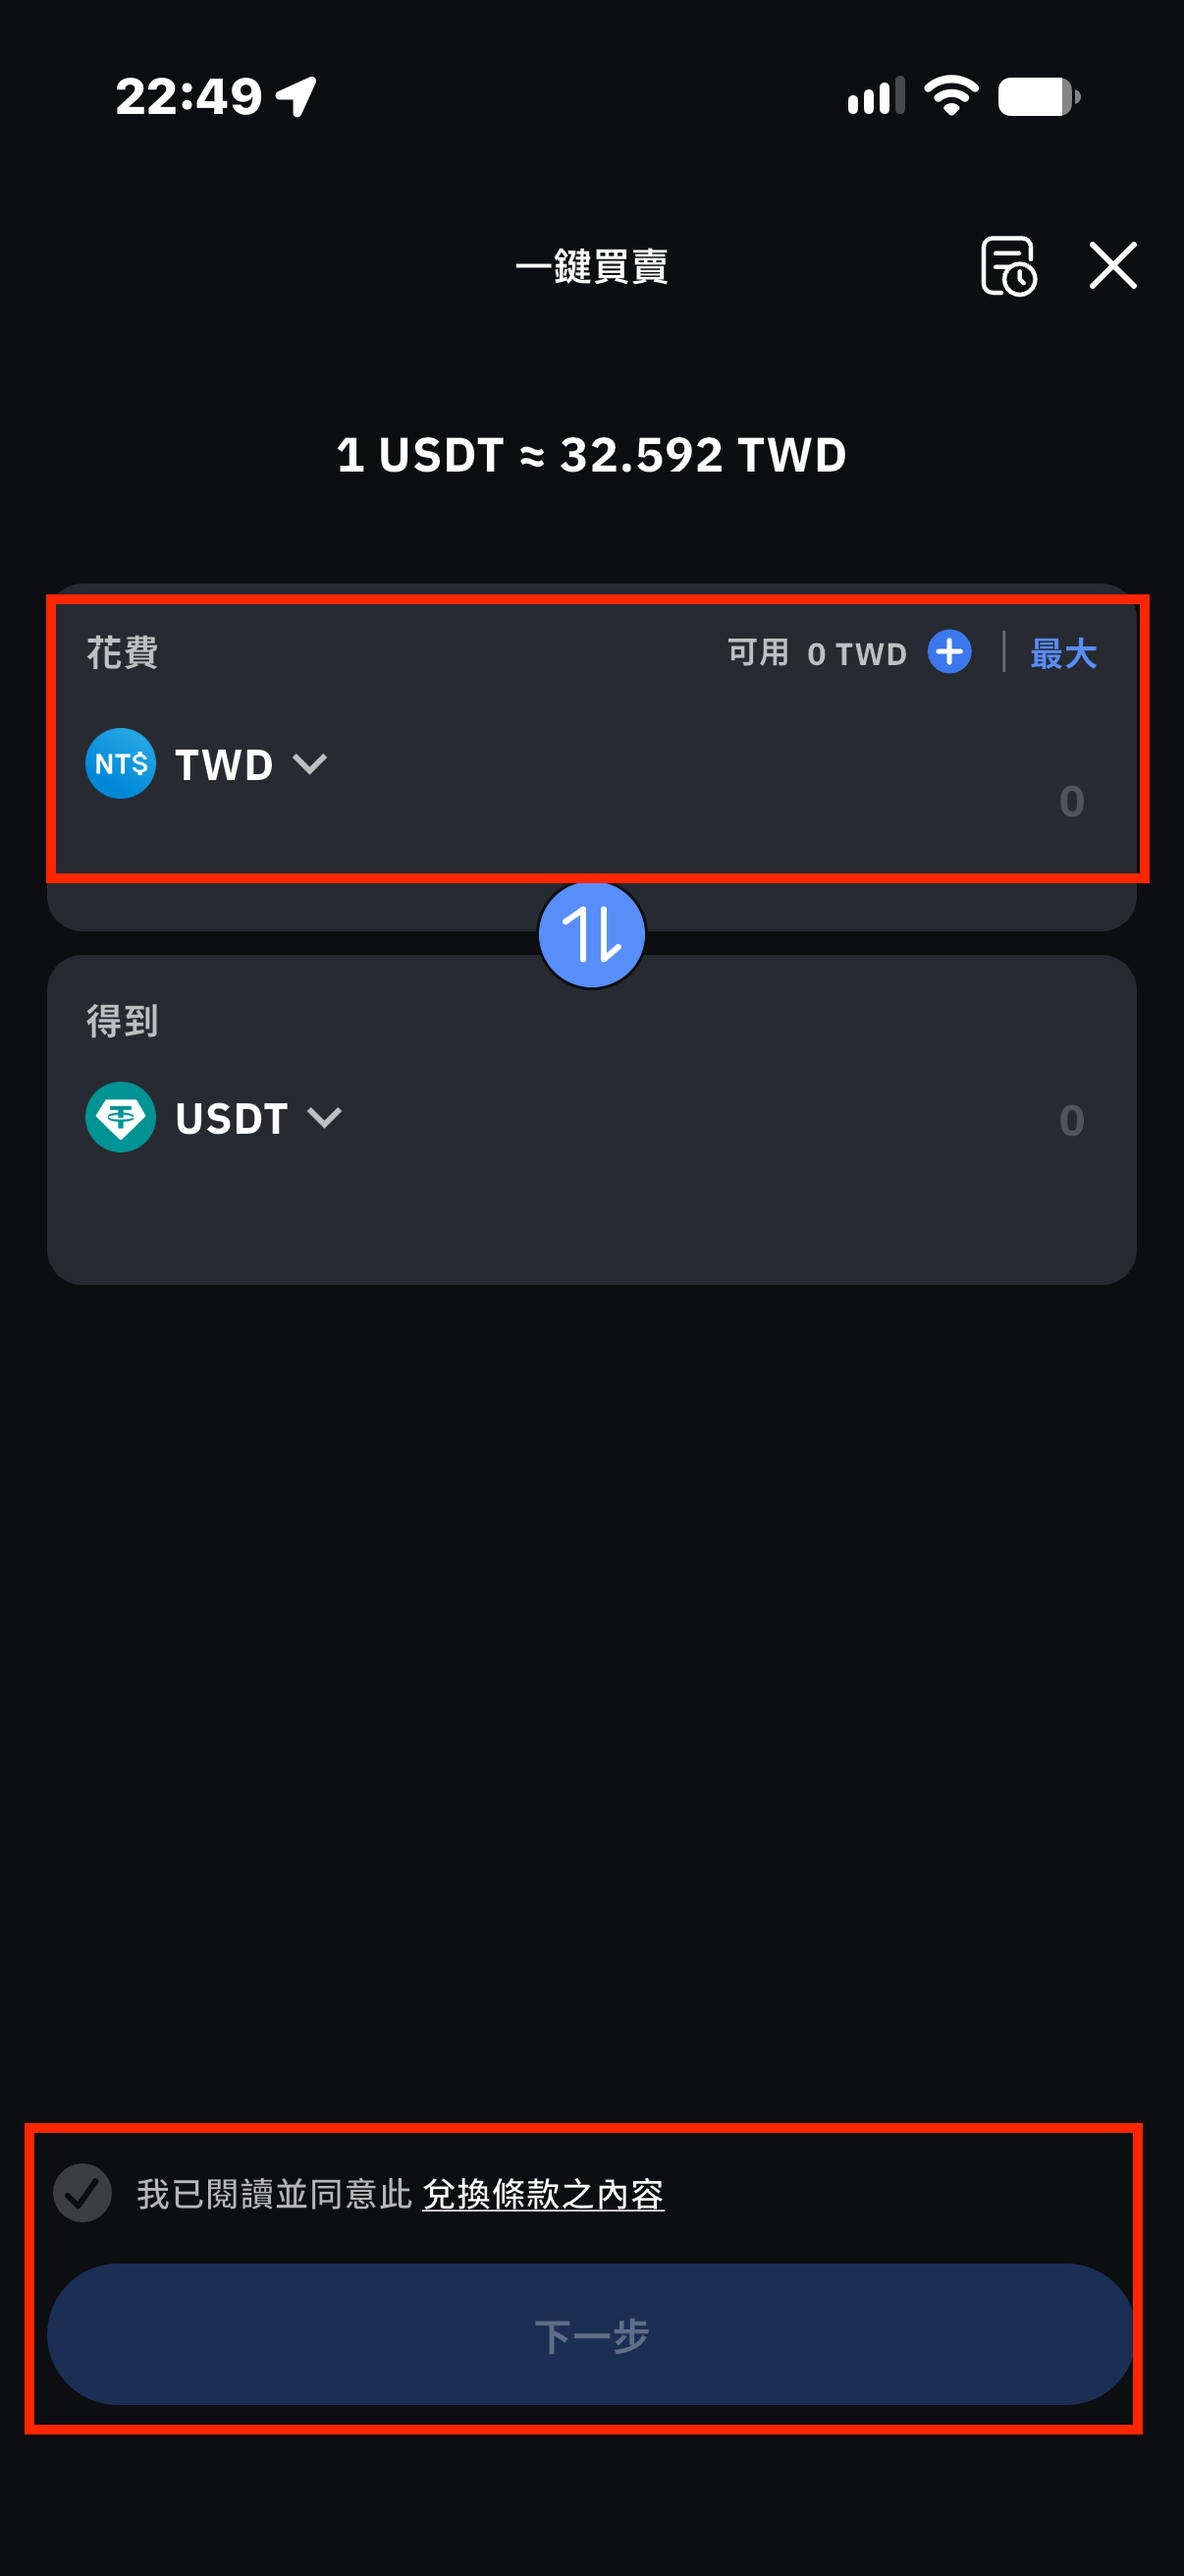
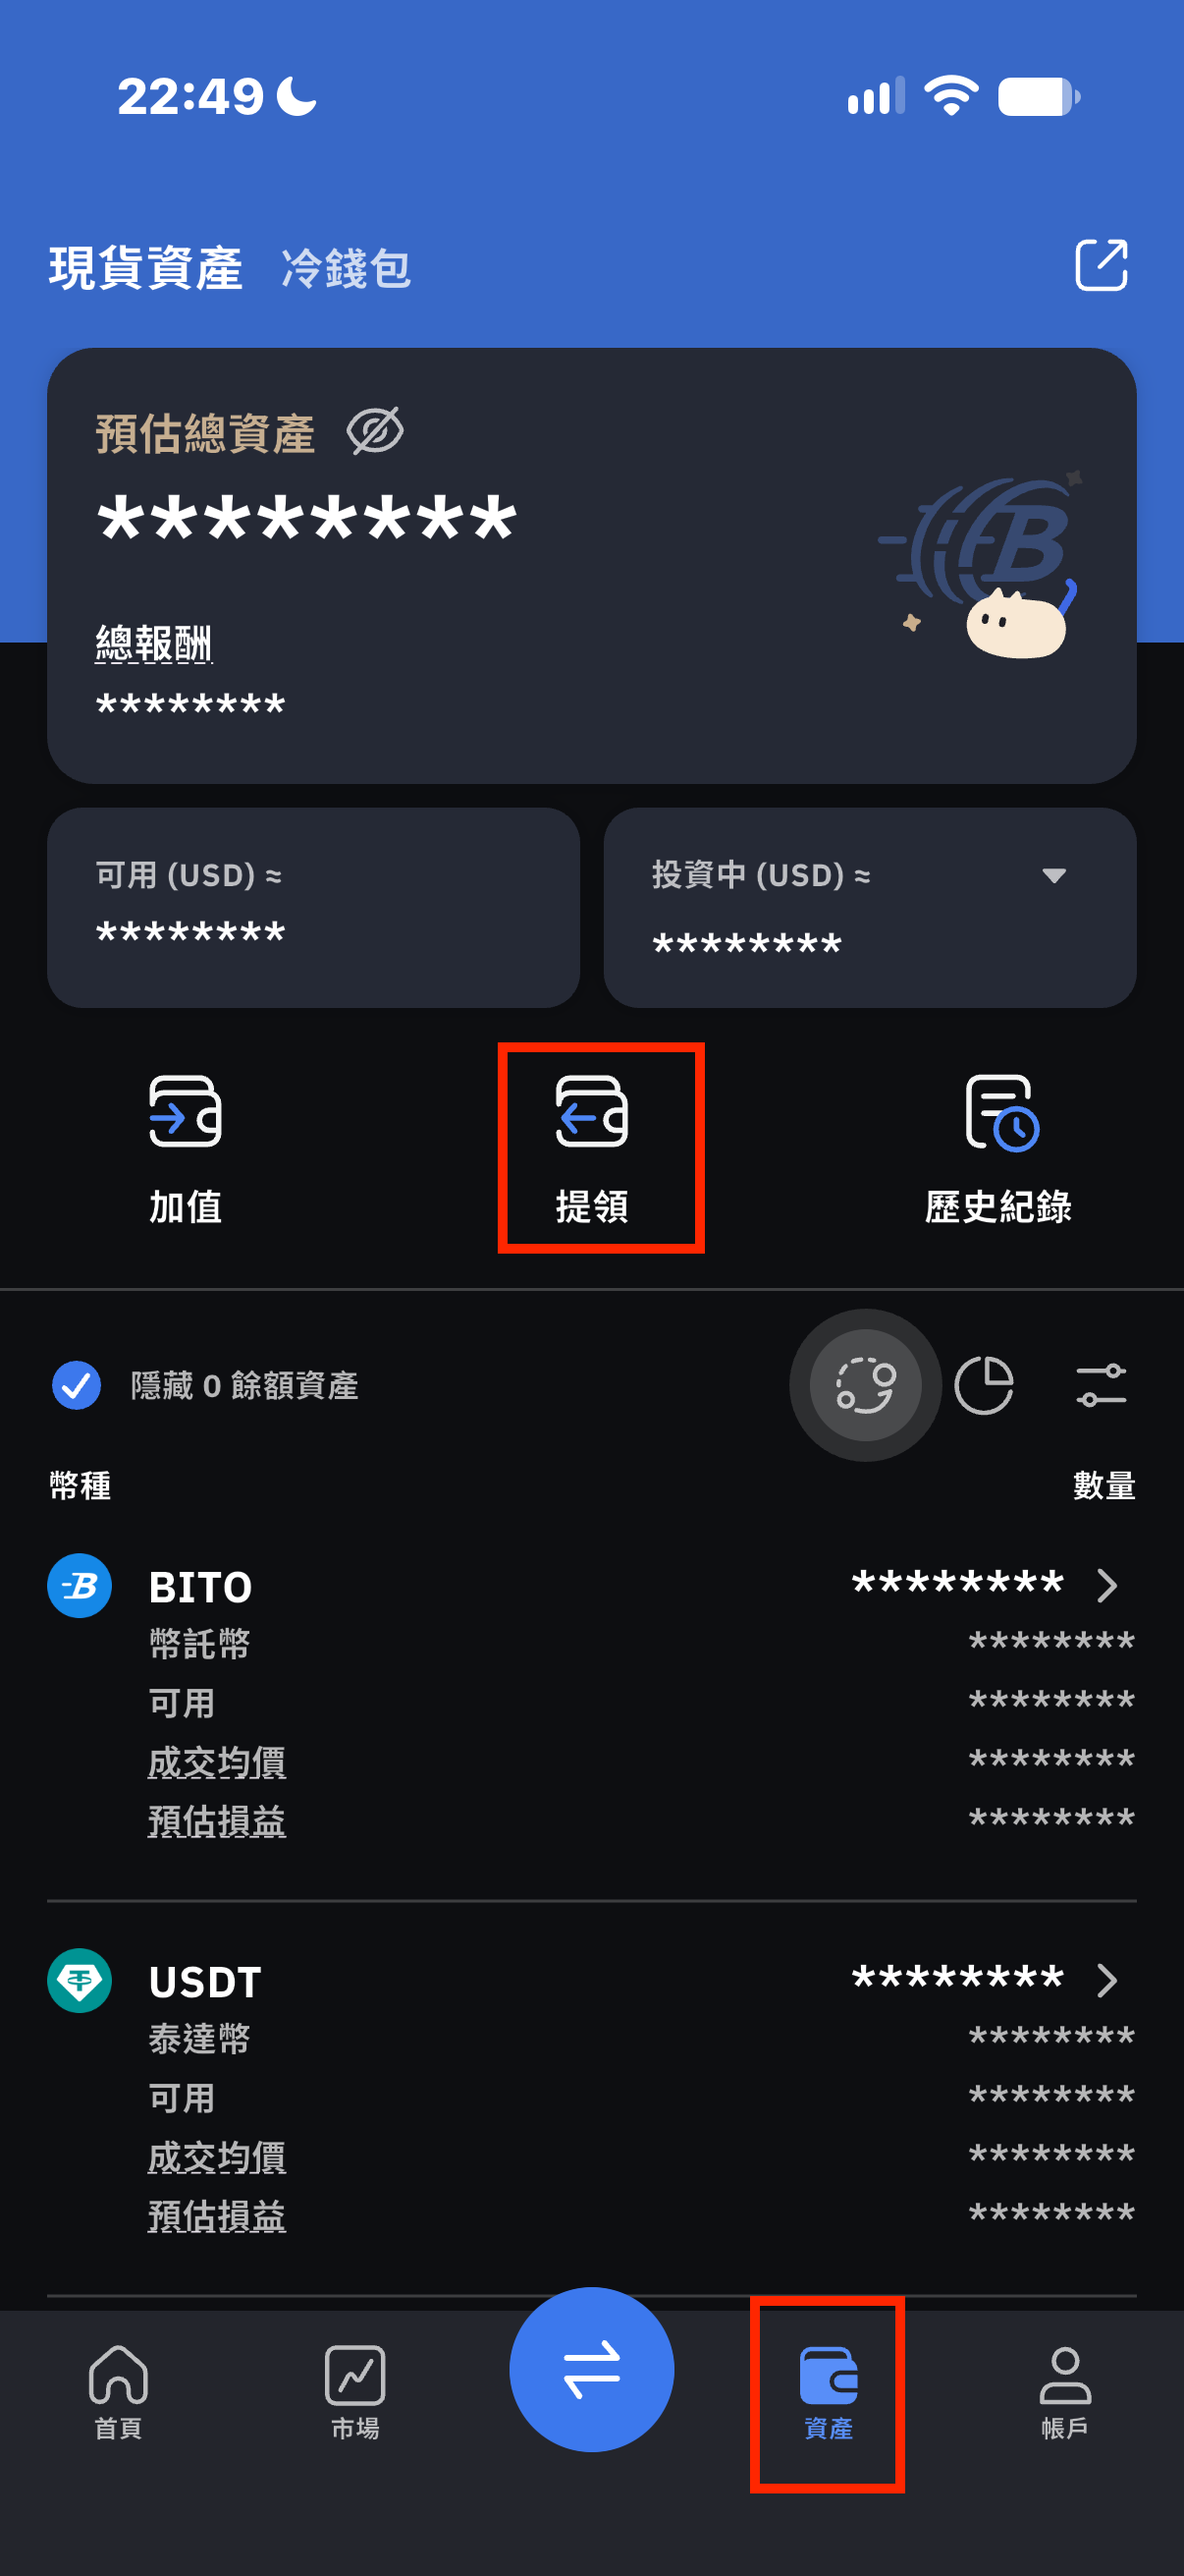
Add files via upload

diff --git a/index.html b/index.html
@@ -120,6 +120,8 @@
   .step-body { flex: 1; min-width: 0; }
   .step-body p { margin: 0 0 8px; }
   .step-img img { display: block; max-width: 200px; max-height: 260px; width: auto; height: auto; border-radius: 8px; border: 1px solid var(--border); margin-top: 8px; }
+  .step-imgs { display: flex; flex-direction: column; gap: 8px; }
+  @media (min-width: 768px) { .step-imgs { flex-direction: row; flex-wrap: wrap; align-items: flex-start; } }
 
   /* 表單 */
   label { display: block; font-weight: 600; margin-bottom: 6px; }
@@ -171,8 +173,9 @@
     <h1>安全出入金・實戰教學・PRO 交易復盤系統</h1>
     <p class="sub">使用村長專屬連結註冊交易所，即可免費申請開通「PRO 交易復盤系統」（內含核心講義以及眾多功能）。</p>
     <div class="hero-btns">
-      <a class="btn" href="#exchanges">看交易所推薦</a>
-      <a class="btn btn-outline" href="#apply">申請 VIP 通行證</a>
+      <a class="btn" href="#exchanges">交易所</a>
+      <a class="btn btn-outline" href="#tutorial">新手教學</a>
+      <a class="btn btn-outline" href="#apply">VIP 申請</a>
     </div>
   </section>
 
@@ -289,8 +292,8 @@
       { t: '確認已填寫邀請碼，並同意使用條款後，點選「下一步」。', imgs: ['reg_bitopro_2.png'] },
       { t: '填寫手機號碼。', imgs: ['reg_bitopro_3.png'] },
       { t: '點選「身分驗證」，送出後等待一到兩個工作天。', imgs: ['reg_bitopro_4.png'] },
-      { t: '到「帳戶」中選擇「銀行帳戶」，點進去後選擇「立即綁定」。', imgs: ['reg_bitopro_5.png'] },
-      { t: '依照畫面要求填寫資料，送出後等待兩到三個工作天審核。', imgs: ['reg_bitopro_6.png'] }
+      { t: '到「帳戶」中選擇「銀行帳戶」。', imgs: ['reg_bitopro_5.png'] },
+      { t: '依照畫面要求填寫資料，提交後等待兩到三個工作天審核。', imgs: ['reg_bitopro_6.png'] }
     ]},
     { title: '🔵 註冊國際交易所', steps: [
       { t: '與村長討論後，使用村長的連結與邀請碼註冊，再到應用商店下載對應的交易所 App。', imgs: ['reg_exchange_1.png'] },
@@ -303,7 +306,7 @@
       { t: '台幣到帳後，回到首頁選擇「一鍵買賣」，點選中間的轉換符號，確認買賣方向為 TWD 換成 USDT。', imgs: ['dep_4.png'] },
       { t: '輸入想要買入的金額，勾選同意條款後，點選「下一步」。', imgs: ['dep_5.png'] },
       { t: '回到幣託的資產頁面，點選「提領」。', imgs: ['dep_9.png'] },
-      { t: '選擇 USDT，提領網路選擇「BEP20」。', imgs: ['dep_10.png', 'dep_11.png'] },
+      { t: '選擇 USDT，提領網路選擇「BEP20」。', imgs: ['dep_6.1.png', 'dep_6.2.png'] },
       { t: '到交易所的主畫面或右下角的資產頁面，選擇「充值」。' },
       { t: '選擇 USDT，充值網路選擇「BEP20」。' },
       { t: '複製交易所提供的地址，回到幣託的提領頁面，貼上到「提領到」。' },
@@ -324,7 +327,7 @@
       { t: '輸入要賣出的 USDT 數量，勾選同意條款後，點選「下一步」。' },
       { t: '到幣託的資產頁面，選擇「提領」。', imgs: ['with_6.png'] },
       { t: '選擇「新台幣」，輸入提款金額後，點選「下一步」。', imgs: ['with_7.png', 'with_8.png'] },
-      { t: '兩個工作天內，提領的新台幣就會匯入你的銀行帳戶。' }
+      { t: '輸入提領金額後按下一步，兩個工作天內提領的新台幣就要匯入指定的銀行帳戶。' }
     ]}
   ];
 
@@ -465,7 +468,29 @@
   }
 
   /* ---------- 教學 ---------- */
+  const IMG_EXTS = ['.png', '.PNG', '.jpg', '.JPG', '.jpeg', '.webp'];
+  function imgNext(img) {
+    const i = Number(img.dataset.try || 0) + 1;
+    if (i < IMG_EXTS.length) {
+      img.dataset.try = String(i);
+      img.src = img.dataset.base + IMG_EXTS[i];
+    } else {
+      img.parentElement.remove();
+    }
+  }
   function stepHtml(s, n) {
+    const imgs = (s.imgs || []).map(src => {
+      const base = src.replace(/\.[^.]+$/, '');
+      return '<div class="step-img"><img src="' + esc(src) + '" data-base="' + esc(base) + '" data-try="0" alt="第 ' + n + ' 步截圖" loading="lazy" onerror="imgNext(this)"></div>';
+    }).join('');
+    const wrap = imgs ? '<div class="step-imgs">' + imgs + '</div>' : '';
+    return '<div class="step' + (s.warn ? ' warn' : '') + '">' +
+      '<div class="step-no">' + n + '</div>' +
+      '<div class="step-body"><p>' + esc(s.t) + '</p>' + wrap + '</div>' +
+    '</div>';
+  }
+
+  function stepHtmlOld(s, n) {
     const imgs = (s.imgs || []).map(src =>
       '<div class="step-img"><img src="' + esc(src) + '" alt="第 ' + n + ' 步截圖" loading="lazy" onerror="this.parentElement.remove()"></div>'
     ).join('');
